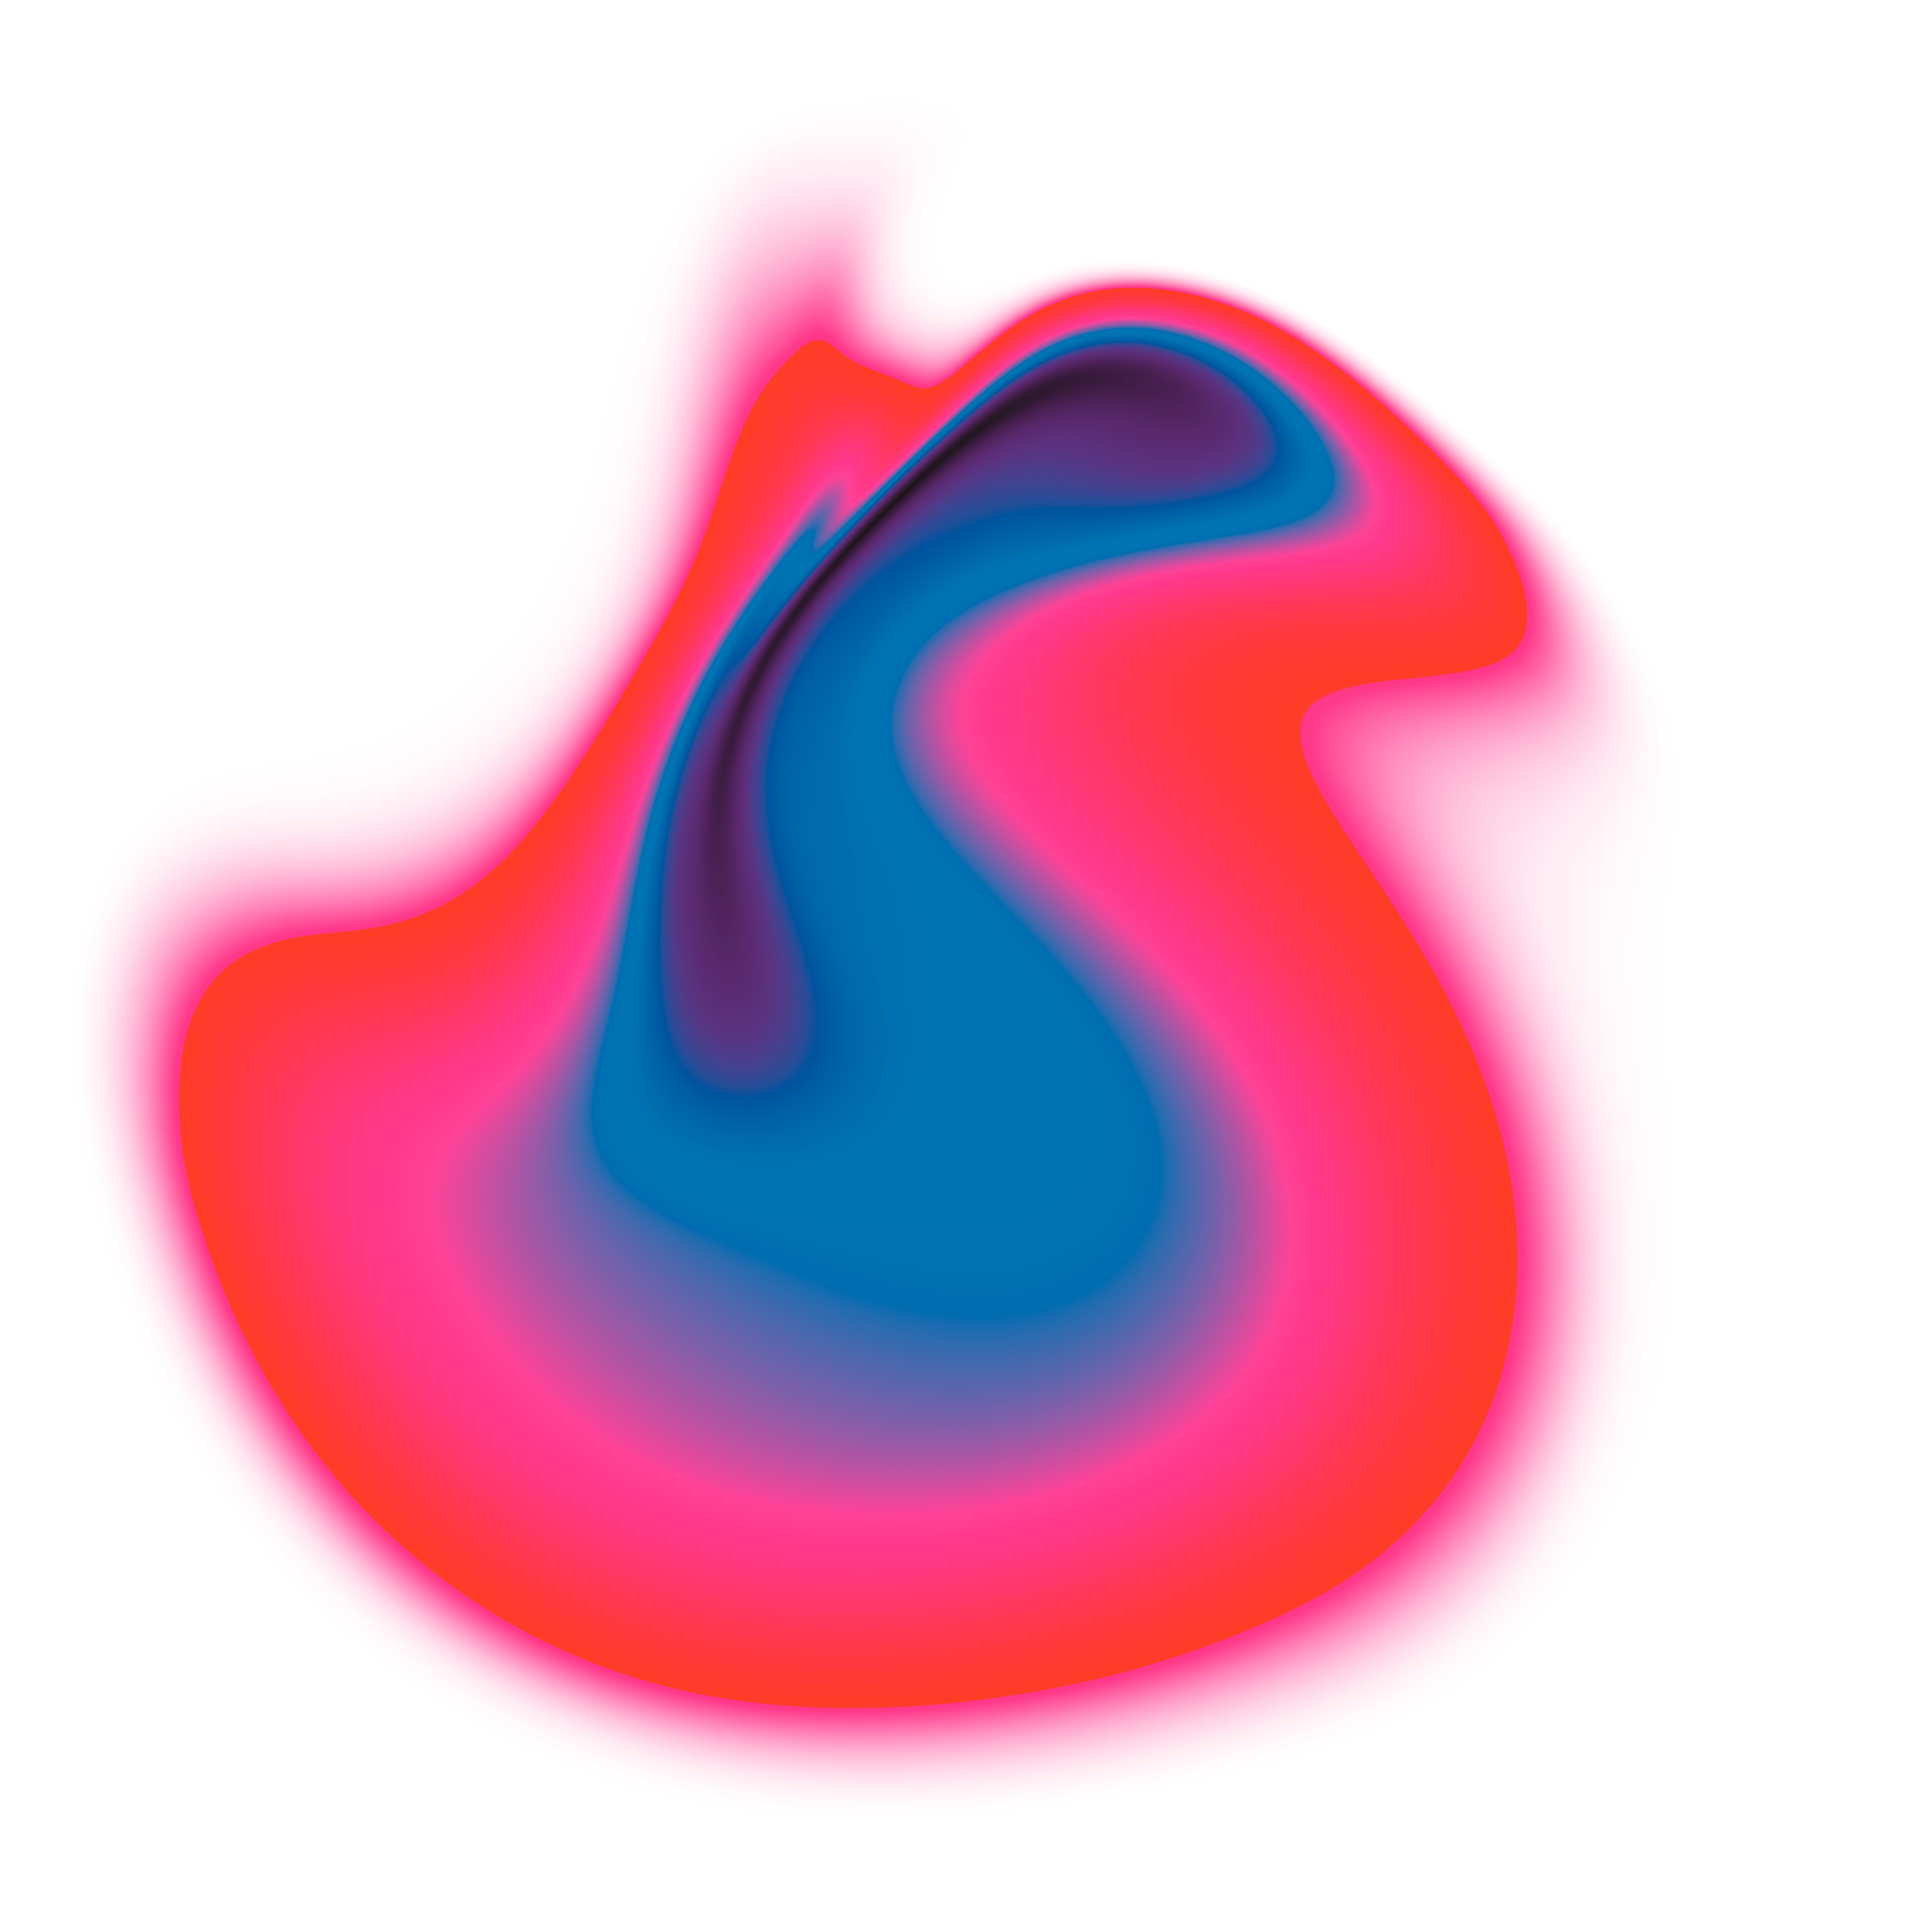
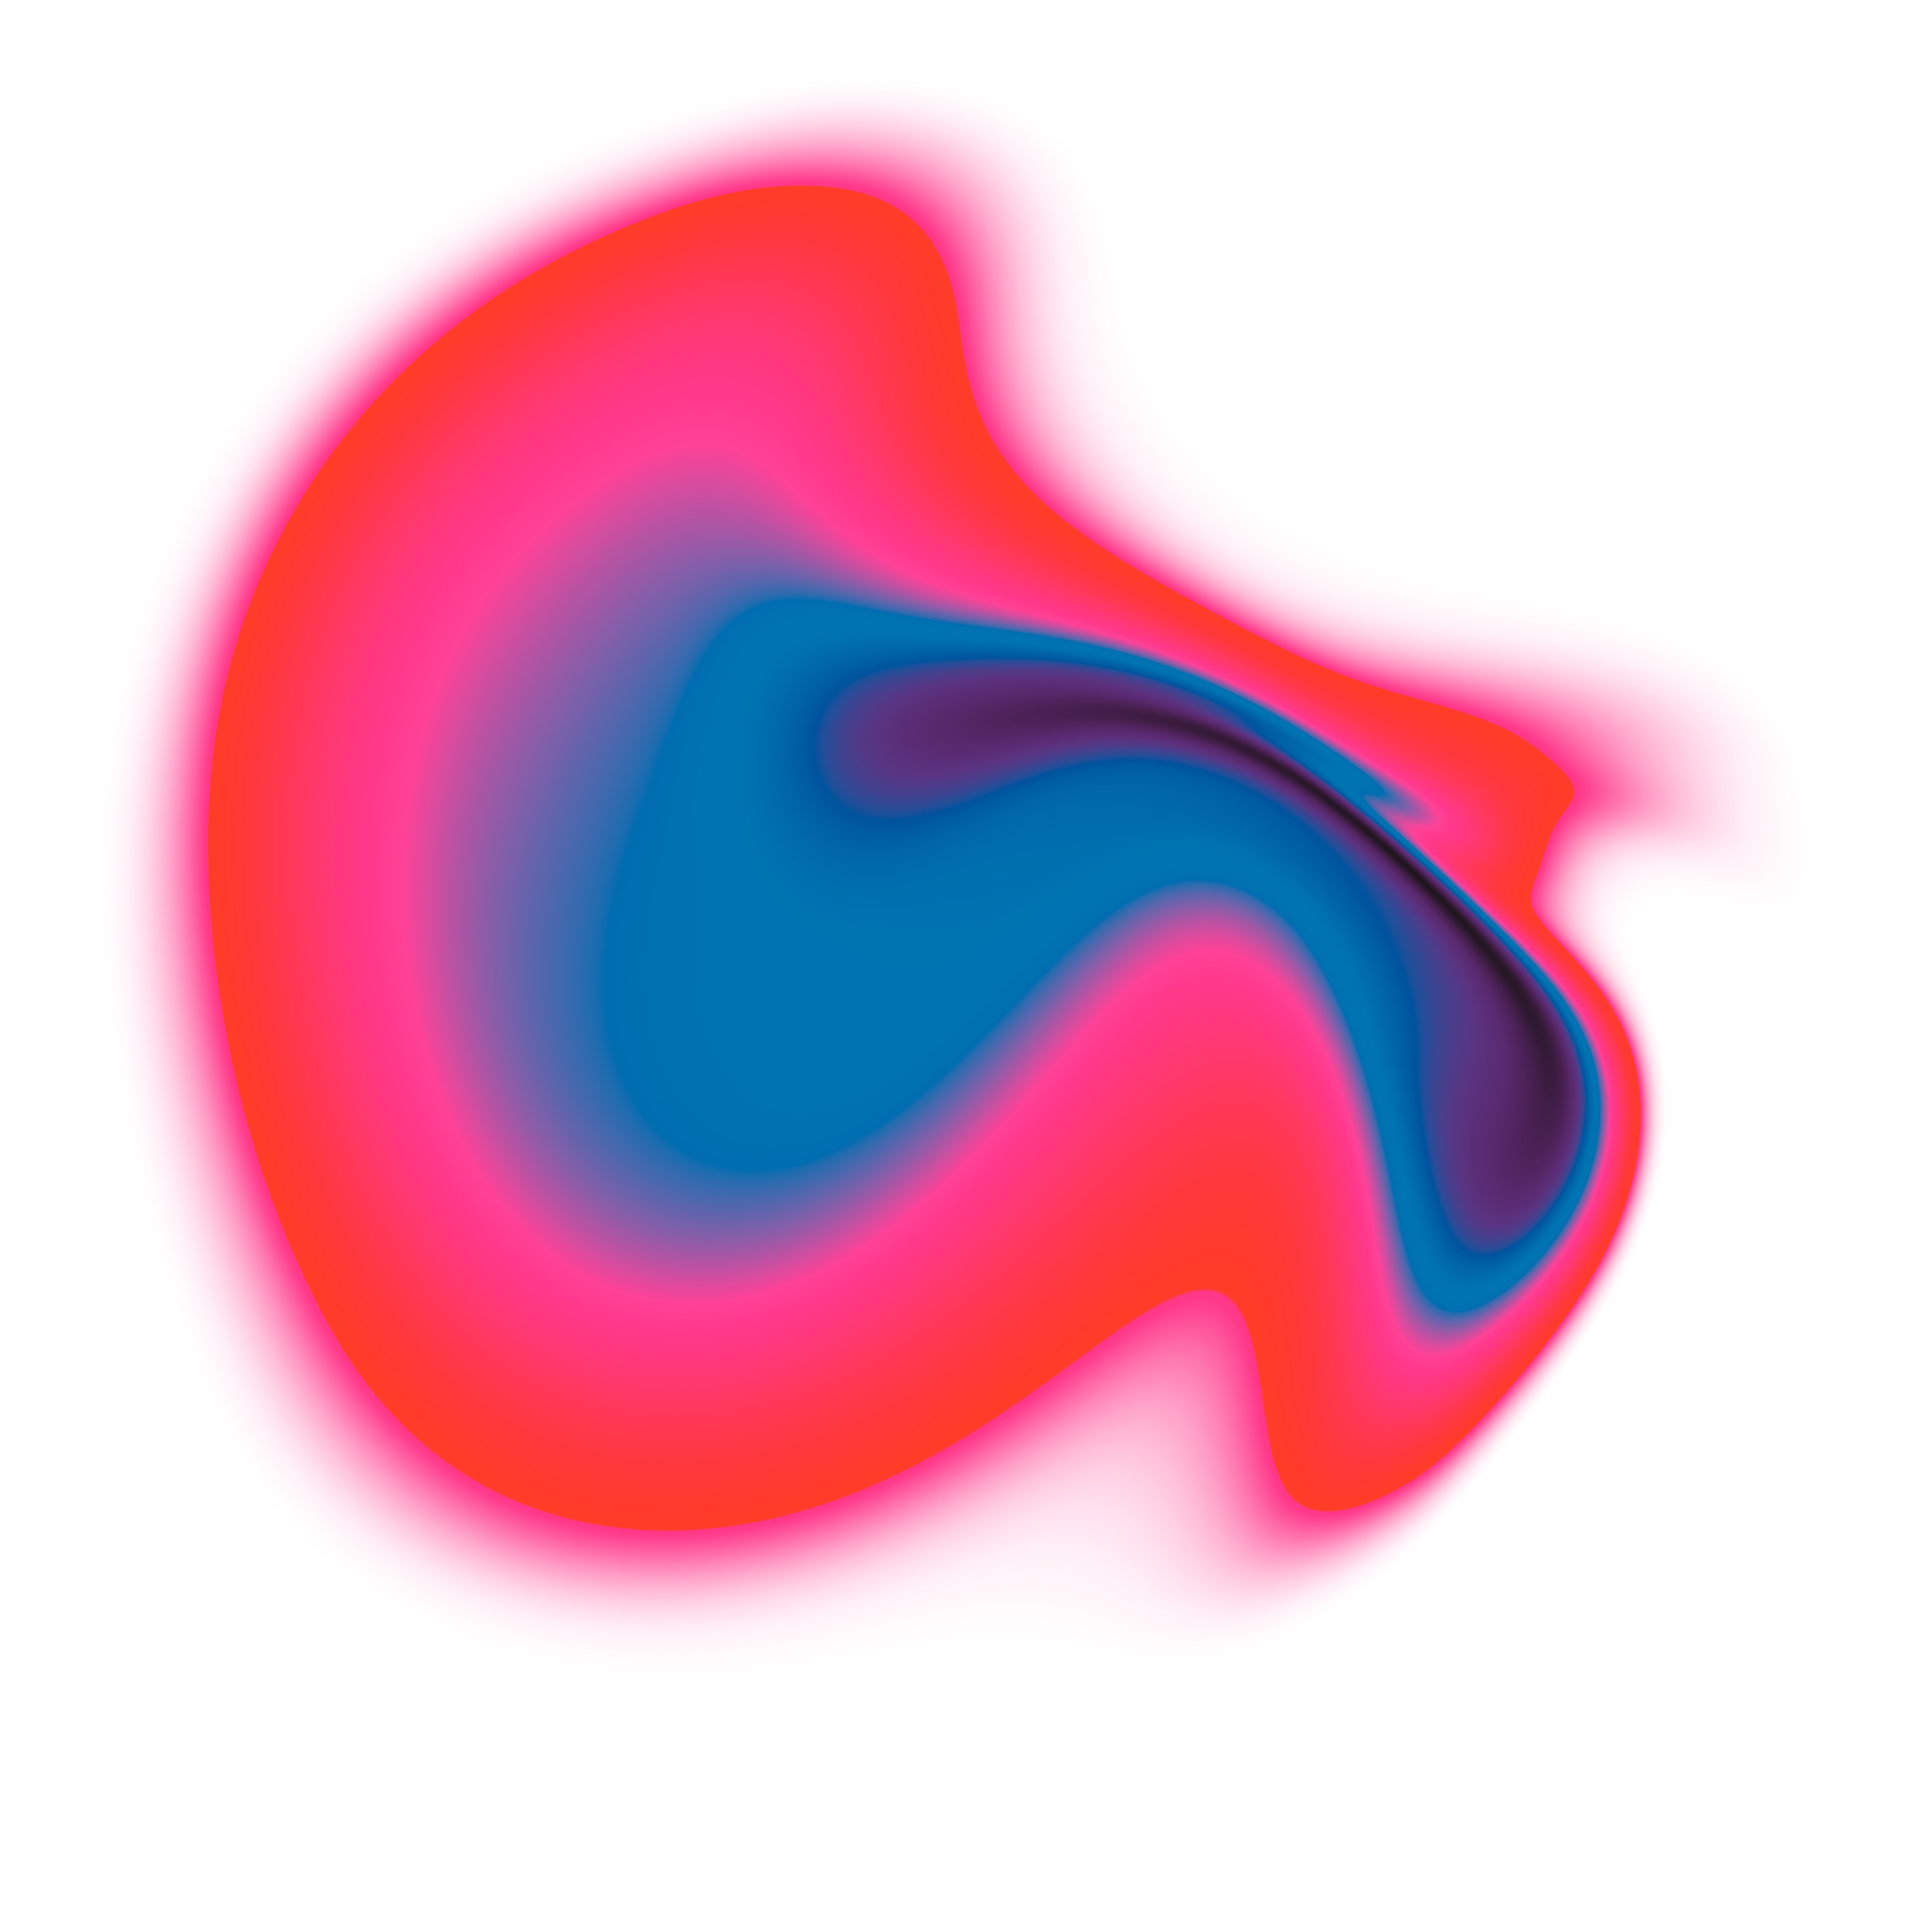
adds shapes and shades to translate func

diff --git a/main.js b/main.js
@@ -11,10 +11,18 @@
 //     }
 // }
 
-window.addEventListener('scroll', function () {
-    const shadeOne = document.querySelector('#shade1');
-    let scrollPositionY = window.pageYOffset;
-    let scrollPositionX = window.pageXOffset;
+const shadeOne = document.querySelector('#shade1');
+const shadeTwo = document.querySelector('#shade2');
+const shapeOne = document.querySelector('#shape1');
+const shapeTwo = document.querySelector('#shape2');
 
-    shadeOne.style.transform = 'translateY(' + scrollPositionY * .4 + 'px)';
+window.addEventListener('scroll', function () {
+    // let scrollPositionY = window.pageYOffset;
+    let scrollPositionX = window.pageYOffset;
+
+    shadeOne.style.transform = 'translateX(' + scrollPositionX * -.4 + 'px)';
+    shadeTwo.style.transform = 'translateX(' + scrollPositionX * .4 + 'px)';
+    shapeOne.style.transform = 'translateX(' + scrollPositionX * -.5 + 'px)' + 'translateY(' + scrollPositionX * -.5 + 'px)';
+    shapeTwo.style.transform = 'translateX(' + scrollPositionX * .4 + 'px)' + 'translateY(' + scrollPositionX * .7 + 'px)';
+
 });

diff --git a/index.html b/index.html
@@ -22,7 +22,7 @@
 
 <body>
     <div id="wrapper">
-        <div id="neon-bg">
+        <div class="neon-bg">
             <div class="neon-img" id="shade1">
                 <img src="../images/shadesNeon/shade1.png" alt="" width="1500" height="1500">
             </div>
@@ -33,7 +33,7 @@
                 <img src="../images/shapesNeon/shape1.png" alt="" width="1000" height="1000">
             </div>
             <div class="neon-img" id="shape2">
-                <img src="../images/shapesNeon/shape2.png" alt="" width="900" height="900">
+                <img src="../images/shapesNeon/shape2.png" alt="" width="1100" height="1100">
             </div>
 
 

diff --git a/styles/main.css b/styles/main.css
@@ -1,8 +1,4 @@
 /* veriical nav structure. Classes to be added and replace html elements */
-* {
-    scroll-behavior: smooth;
-}
-
 body {
     font-family: 'ubuntu', sans-serif !important;
     color: white;
@@ -58,15 +54,14 @@ p {
     z-index: -10;
 }
 
-#neon-bg {
+.neon-bg {
     position: sticky;
     z-index: -1;
 }
 
 #shade1 {
     left: -600px;
-    top: 50px;
-    transform: rotate(75deg);
+    top: 120px;
 }
 
 #shade2 {
@@ -77,13 +72,11 @@ p {
 #shape1 {
     left: -150px;
     top: -600px;
-    transform: rotate(170deg);
 }
 
 #shape2 {
-    left: 700px;
+    left: 600px;
     top: 500px;
-    transform: rotate(170deg);
 }
 
 
